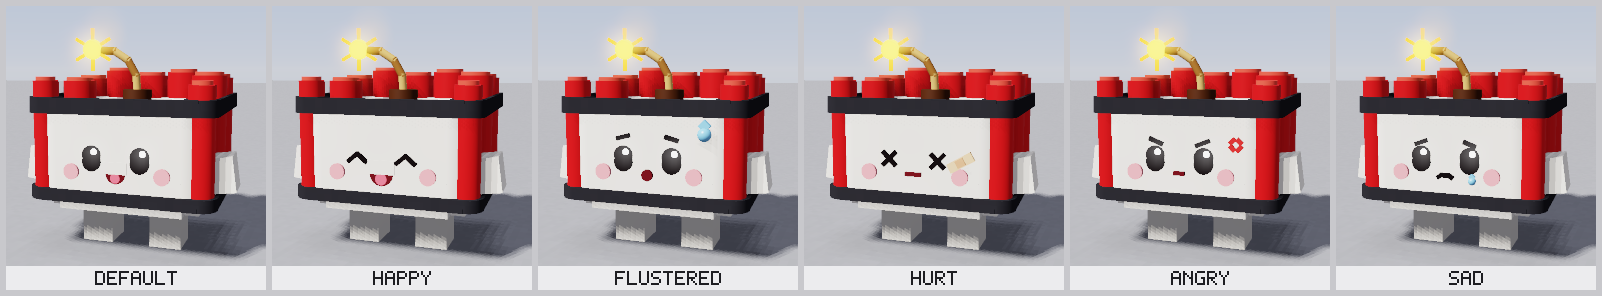
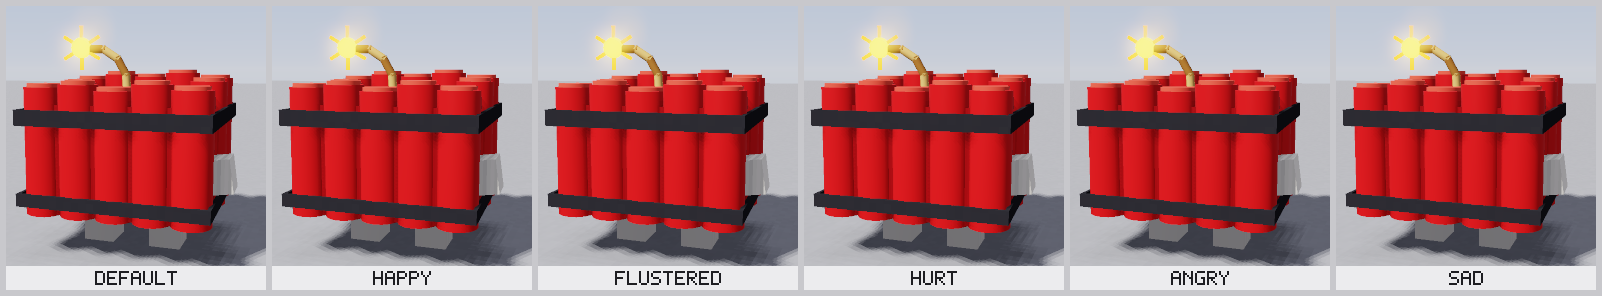
docs(skins): faceless dynamite renders and work log
Claude-Session: https://claude.ai/code/session_01DZSXTc4h1in8hWv4zcL1wV

diff --git a/docs/developer/m6-11-dynamite-sushi.md b/docs/developer/m6-11-dynamite-sushi.md
@@ -1,5 +1,42 @@
 # m6-11 전설 스킨 "다이너마이트 스시" — 개발 작업 기록
 
+## 2026-11-10 (2차) — 얼굴 없이 다이너마이트만 (사용자 결정)
+- 브랜치: `claude/gracious-curie-tl82em-dynamite2` (worktree `/home/user/sushi-dynamite`, 1차 병합 뒤 브랜치 머리에서). push 안 함(요청). AttackFxLogic·공격/다이너마이트 라운드 코드·Config/Remotes/Types/Attributes·init·메인 문서는 손대지 않음.
+- 요청(메인 세션 → 사용자): "얼굴 안보이고 다이너마이트로만 채워줘. 그게 더 귀여울듯" → 확인 질문에 "얼굴도 없이 다이너마이트만". 어느 각도에서도 눈·입·볼과 흰 밥이 안 보이고, 흰 팔·다리만 남은 걷는 다이너마이트 묶음.
+
+### 바뀐 것
+- `src/shared/ConceptDynamite.luau` 다시 짬: 막대 12개(앞 줄 5·뒤 줄 5·옆 2, 지름 0.86, 간격 0.81로 이웃이 살짝 겹쳐 틈 없음, 끝 마개 12) + 팔 위 짧은 막대 2(마개 없음, 아래끝 y 0 — 팔 위끝 −0.04보다 위라 팔은 다 보여요) + 위에서 보이는 안쪽 막대 끝 4 + 짙은 빨강 판 4(앞 z −1.64~−1.60·양옆 x ±1.80~1.84·위 y 1.0~1.06 — 밥과 받침을 통째로 감싸요. 뒤는 뒤 줄 막대가 밥 뒷면에서 거의 닿아 판 없이 덮어요) + 숯빛 띠 2줄 × 앞·뒤·양옆 4(막대 바깥면에 반쯤 묻힘, 모서리는 네모로 만남) + 심지(위 판 위 갈색 받침·꼰 마디 4·Neon 불꽃 공·빛살 3).
+- 앞 판은 가장 앞으로 나온 얼굴 파츠(당황 땀방울 z −1.57)보다 앞이라, 앞 줄 막대 틈으로도 얼굴이 안 보여요. 공유 얼굴 파츠(깜빡임 관절 포함)는 그대로 있고 숨기만 해요 — 공유 몸 검사·관절 8개 그대로.
+- 규칙 표 `SushiBody`: `ConceptBodyRule`에 선택 칸 `faceHidden: boolean?`, `LEGEND_RULES["dynamite-sushi"] = { partBudget = 80, faceHidden = true }`, `conceptBody`로 옮겨 담음. 게임 코드는 이 칸을 안 읽고(테스트가 `.faceHidden` 접근을 SushiBody 밖에서 막음) 테스트만 씀. 스킨 id 분기 없음.
+- 파츠 상한 70 → **80**: 막대 12 + 마개 12 + 팔 위 2 + 안쪽 끝 4 + 판 4 + 띠 8 + 심지 9 = 토핑 51, 공유 몸 25~29 → 76/72~80 (최대 표정이 딱 80).
+- `Skins.luau` 주석만 고침(카탈로그 값·문구 그대로).
+
+### 수치 (표정 6종)
+| 파츠 (기본/최소~최대) | 상한 | 효과 | 외곽 X × Y × Z (salmon 대비 X·Z) | 꼭대기 | 이름표 |
+|---|---|---|---|---|---|
+| 76 / 72~80 | 80 | Sparkles(불꽃 공) + Smoke(심지 끝 마디) | 4.76 × 4.99 × 3.67 (1.00 · 1.24) | 2.74 | 3.6 |
+- Z는 한도 3.70에 가까워요(앞 줄 z −1.42·뒤 줄 1.31·띠). 발바닥 2.25, 겹침·떠 있음 0, 관절 8개, 토핑은 모두 Body 용접.
+
+### 렌더 비평 (2차, `lune run tools/render-character dynamite-sushi --view closeup|turntable|expressions|gameplay [--light studio|lobby]`)
+1. w1(앞 줄 5·뒤 줄 5·옆 2·안쪽 끝 5·판 5): 앞·뒤·위 모두 빨간 막대 묶음, 얼굴·흰 밥 안 보임. 옆에서 앞 모서리 막대와 옆 막대 사이(팔 자리)에 짙은 빨강 판이 넓게 보여 상자 같음. 팔은 앞에서 거의 안 보임(모서리 막대 바깥 2.15 vs 팔 끝 2.33). → 팔 위 짧은 막대 2개 추가, 파츠를 맞추려고 뒤 판을 빼고(뒤 줄을 z 1.31로 — 밥 뒷면에서 틈 0.004) 안쪽 끝 5 → 4(심지 받침이 그 자리).
+2. w2: 옆이 막대로 차고 팔이 그 아래로 나와요. 팔이 앞에서는 여전히 실처럼 보임. → 줄 간격 0.86 → 0.81(이웃이 살짝 겹침), 옆 바깥 2.05라 팔 끝 0.28이 앞에서도 보여요.
+3. w3: 앞에서 양옆으로 작은 흰 팔, 3/4에서 팔이 막대 묶음 옆에서 또렷, 위에서는 막대 끝 격자 + 심지. 테스트에서 판 아래끝을 받침까지 내리자 막대 아래끝과 같은 평면 → 막대 아래끝 −1.32로.
+4. 최종: 앞·3/4·옆·뒤·위 어디서도 얼굴·흰 밥 없음, 표정 6종 그림이 모두 같아요(의도). 로비 조명에서도 빨강·숯빛·노란 불꽃 구분. 남은 차이: 팔 위 짧은 막대는 마개가 없어 위에서 보면 끝이 평평(파츠 80이 꽉 참).
+- 렌더: `after-*.png` 6장 교체(`after-closeup`·`after-turntable`·`after-turntable-lobby`·`after-expressions`·`after-gameplay-back`·`after-mobile-back`), `before-*` 그대로, 1차 최종(얼굴 보이는 판)은 `prev-closeup.png`.
+
+### 바뀐 테스트
+- `m5-28-concept-skins` "토핑이 얼굴을 안 가려요"·`m5-29-qa` "게임에서 쓰는 모습 … 얼굴 파츠를 앞에서 안 가려요": 규칙 표에 `faceHidden`이 있는 스킨은 건너뜀. `m5-28-concept-skins`·`m5-30-qa` 상한 80 목록에 다이너마이트.
+- `m6-11-dynamite-sushi`: 상한 80·`faceHidden`, 얼굴 안 가림 검사를 빼고 대신 (1) `faceHidden`은 다이너마이트 하나뿐 + 게임 코드는 안 읽음, (2) 표정 6종마다 모든 얼굴 파츠의 앞면 5 × 5 점과 얼굴 영역 격자(x ±1.4, y −0.8~0.76) 앞에 토핑(앞에서 본 판·세운 원기둥 앞면으로 계산), (3) 흰 밥 안 보임(앞·옆·위 판이 밥·받침 외곽을 덮음, 뒤는 x를 따라 뒤 줄 막대 뒷면이 밥 뒷면보다 뒤), 막대 묶음(앞·뒤 줄 5개 이상·간격 ≤ 지름·바닥까지·팔 위 막대는 팔보다 위·안쪽 끝), 띠(앞·뒤 막대 바깥) 고침. 19개.
+
+### 검증 (2차)
+- `lune run tests` **2563 passed, 0 failed** (이 브랜치 기준 2561 + m6-11 새 2개). `rojo build` 통과, `stylua --check src tests tools` 통과, `luau-lsp analyze` 끝 코드 0, selene 근사 std(Roblox API 검사 없음) 0 errors / 0 warnings.
+
+### Studio에서 확인할 것 (2차)
+1. 탈의실·인형·게임 캐릭터 모두 얼굴이 안 보이는지 — 앞·옆·위·뒤에서 흰 밥도 안 보이는지(특히 Future 조명에서 막대 사이 틈, 아래에서 올려다보는 카메라).
+2. 걸을 때 팔이 팔 위 짧은 막대·옆 막대와 크게 겹쳐 보이지 않는지(팔 흔들림은 클라이언트 연출, 막대는 Body 용접).
+3. 탈락·우승 연출에서 표정이 안 보여도 어색하지 않은지(표정 6종 그림이 모두 같아요 — 의도), 깜빡임 관절이 판 뒤라 안 보이는지.
+4. 불꽃 Sparkles·Smoke 양, 이름표와 불꽃 간격(꼭대기 2.74, 이름표 3.6).
+
 ## 2026-11-10 — 구현·렌더 비평·테스트 (사용자 확인 대기)
 - 브랜치: `claude/gracious-curie-tl82em-dynamite` (worktree `/home/user/sushi-dynamite`). push 안 함(요청). 스펙 문서·CLAUDE.md·GDD·GAME-GUIDE·CHANGELOG·USER-TODO·DEV-SETUP·README와 공격 연출(`AttackFxLogic` — 메인 세션이 main에서 `dynamite-sushi` 연출 추가)·공격 코드·Config/Remotes/Types/Attributes·init 스크립트는 손대지 않음.
 - 요청(메인 세션 → 사용자 콘셉트 그림, 파일 없음): 콘셉트 몸 위 귀여운 다이너마이트 묶음. 빨간 막대 약 8개가 통처럼 두르고, 숯빛 띠 두 줄, 위에 갈색 받침 + 꼰 심지 + 노랑·주황 Neon 불꽃, 효과 2개(불꽃 Sparkles/Fire + 옅은 회색 Smoke). 전설 R$ 199, drawGrade Legendary, conceptBody, order 49, productId nil, 대사 2줄. 특정 작품 없음.
